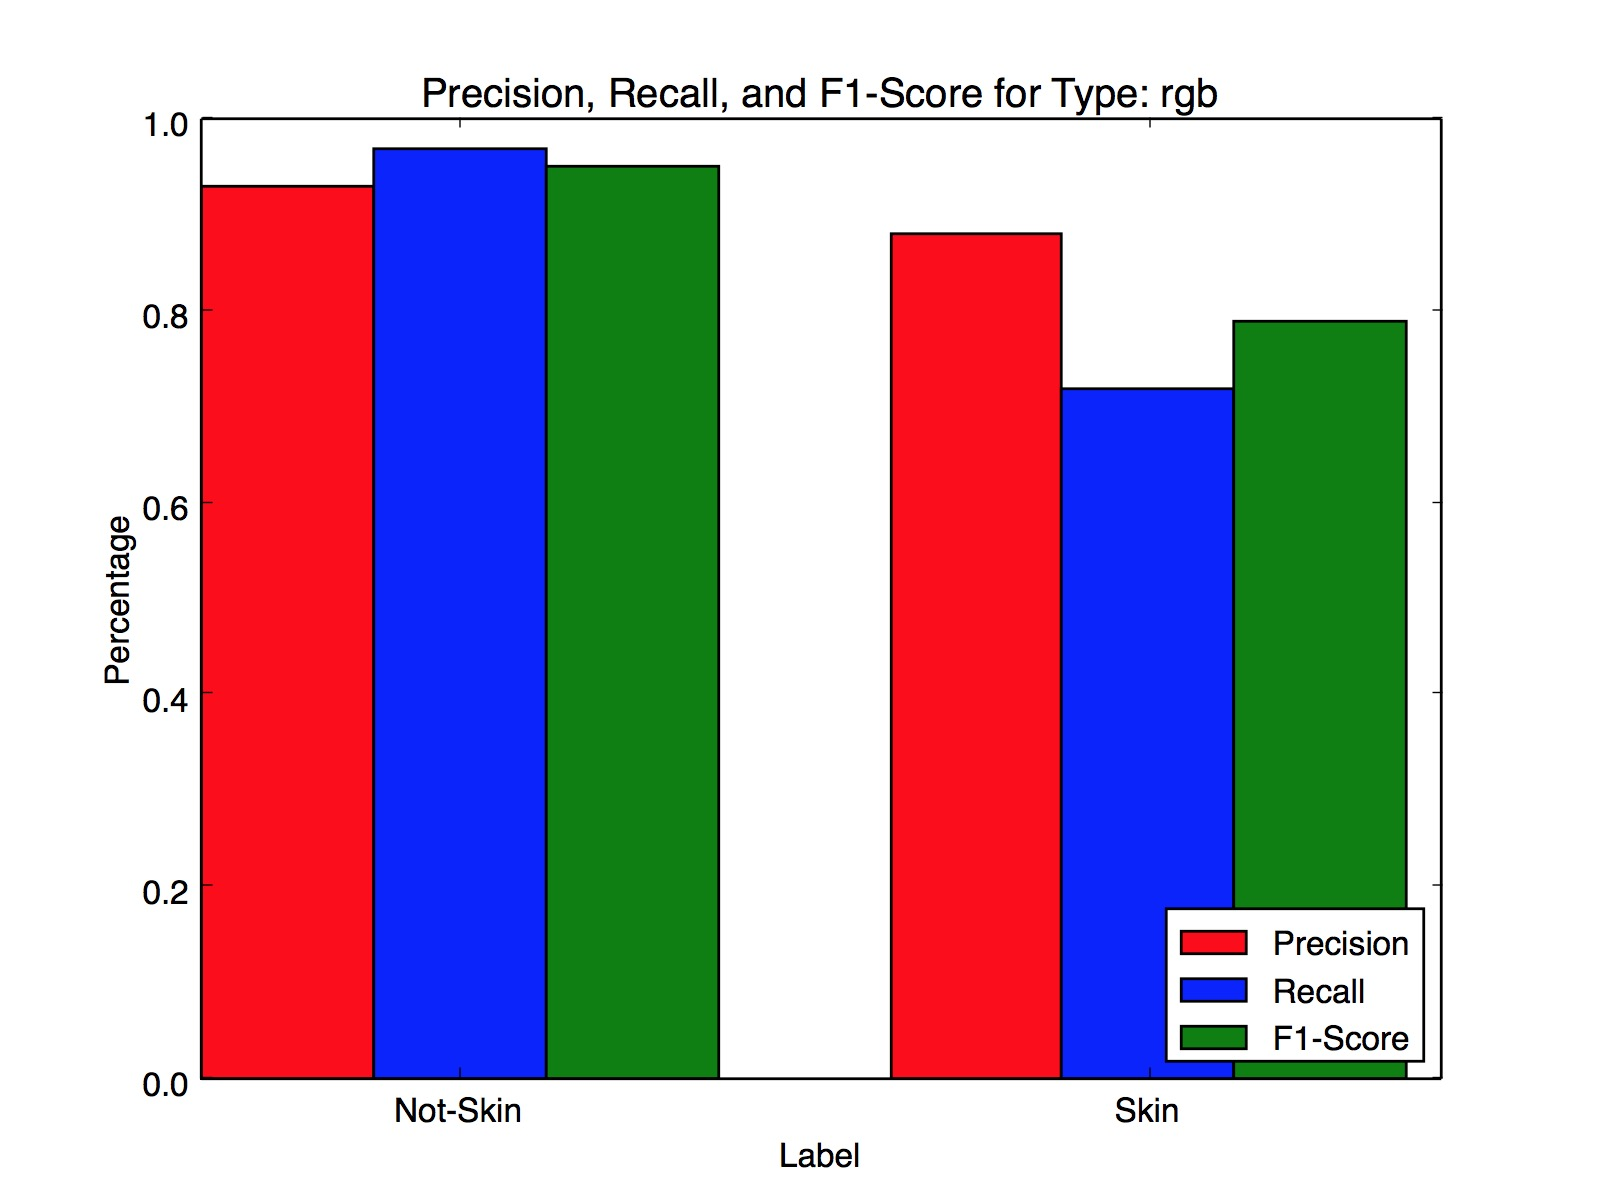
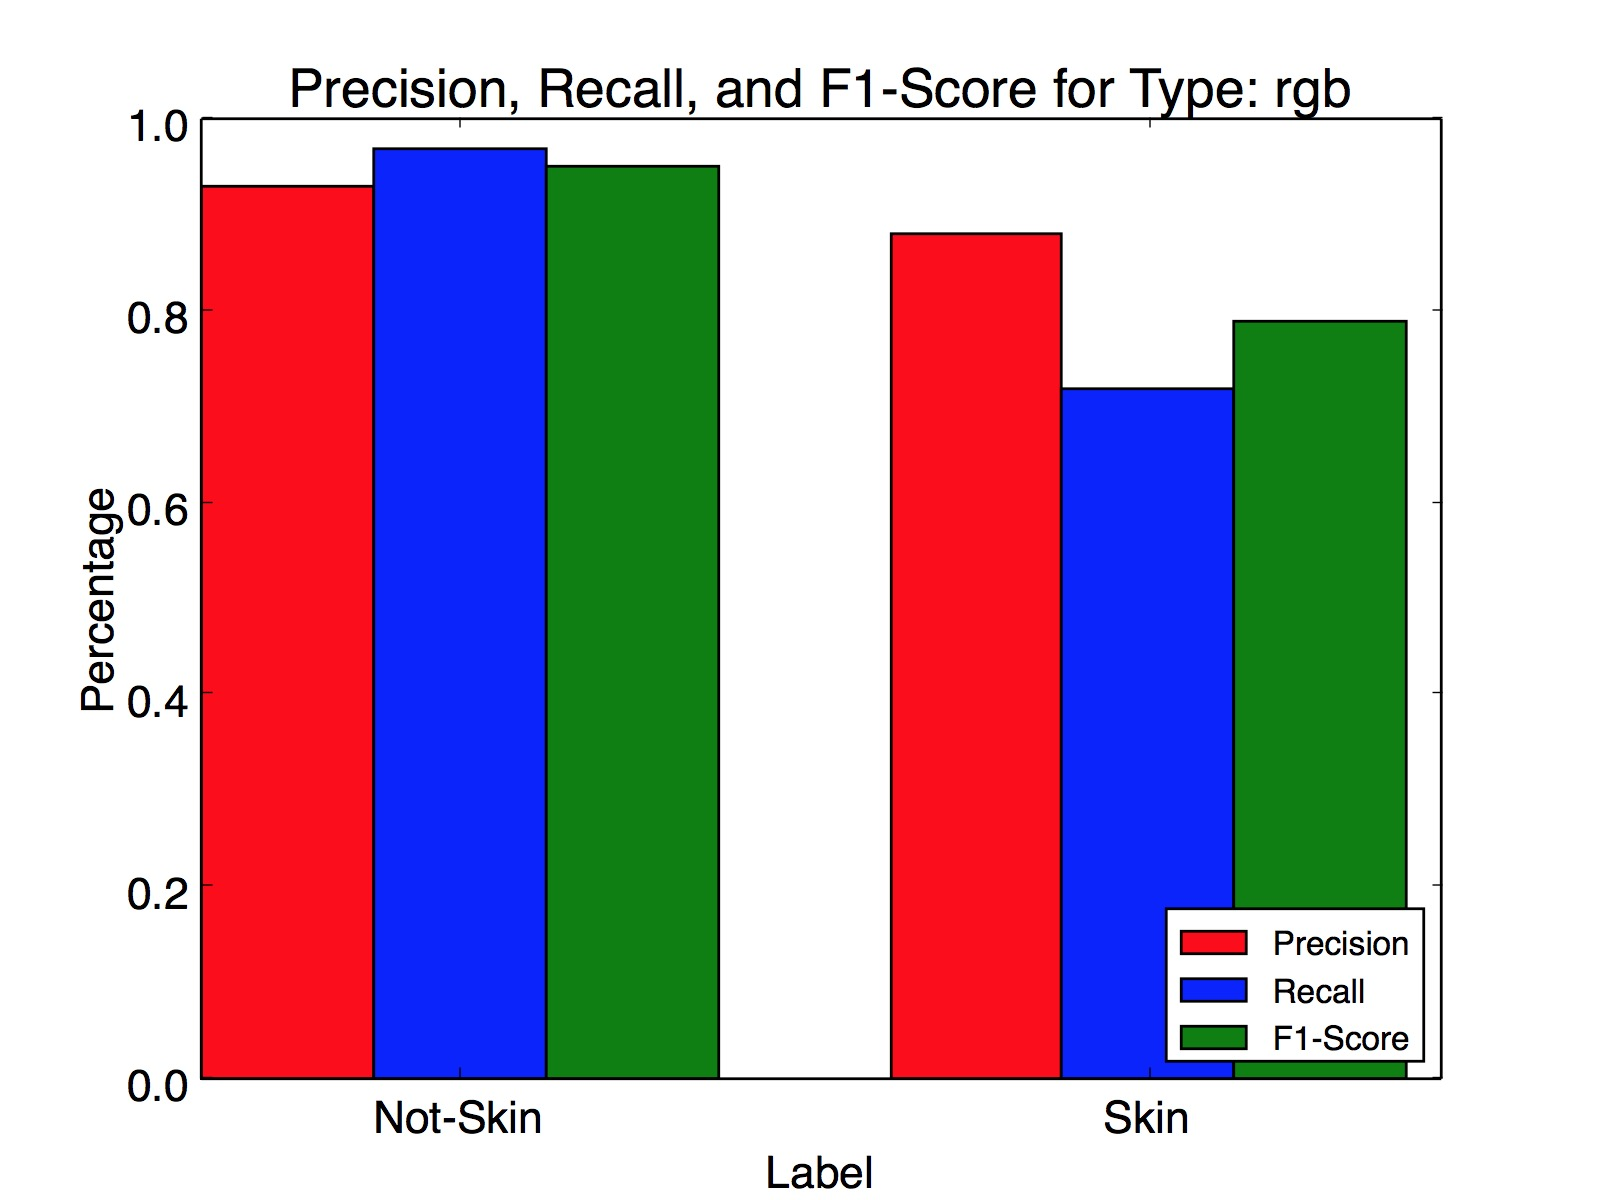
Updated results and script

diff --git a/scripts/im_plots.py b/scripts/im_plots.py
@@ -8,7 +8,7 @@ import operator
 import matplotlib.pyplot as plt
 import numpy as np
 
-resDir = "../rs-materials/scripts/results_lr/"
+resDir = "../rs-materials/scripts/results_sr/"
 # Key: type, Value: [0:p, 0:r, 0:f1, 1:p, 1:r, 1:f1]
 resMap = {}
 
@@ -39,6 +39,11 @@ for resFile in glob.glob(resDir + 'crossvalid*.txt'):
 
 ind = np.arange(2)
 width = 0.25
+font = {'family' : 'normal',
+        'weight' : 'bold',
+        'size'   : 16}
+
+matplotlib.rc('font', **font)
 
 for k in resMap.keys():
   fig, ax = plt.subplots()
